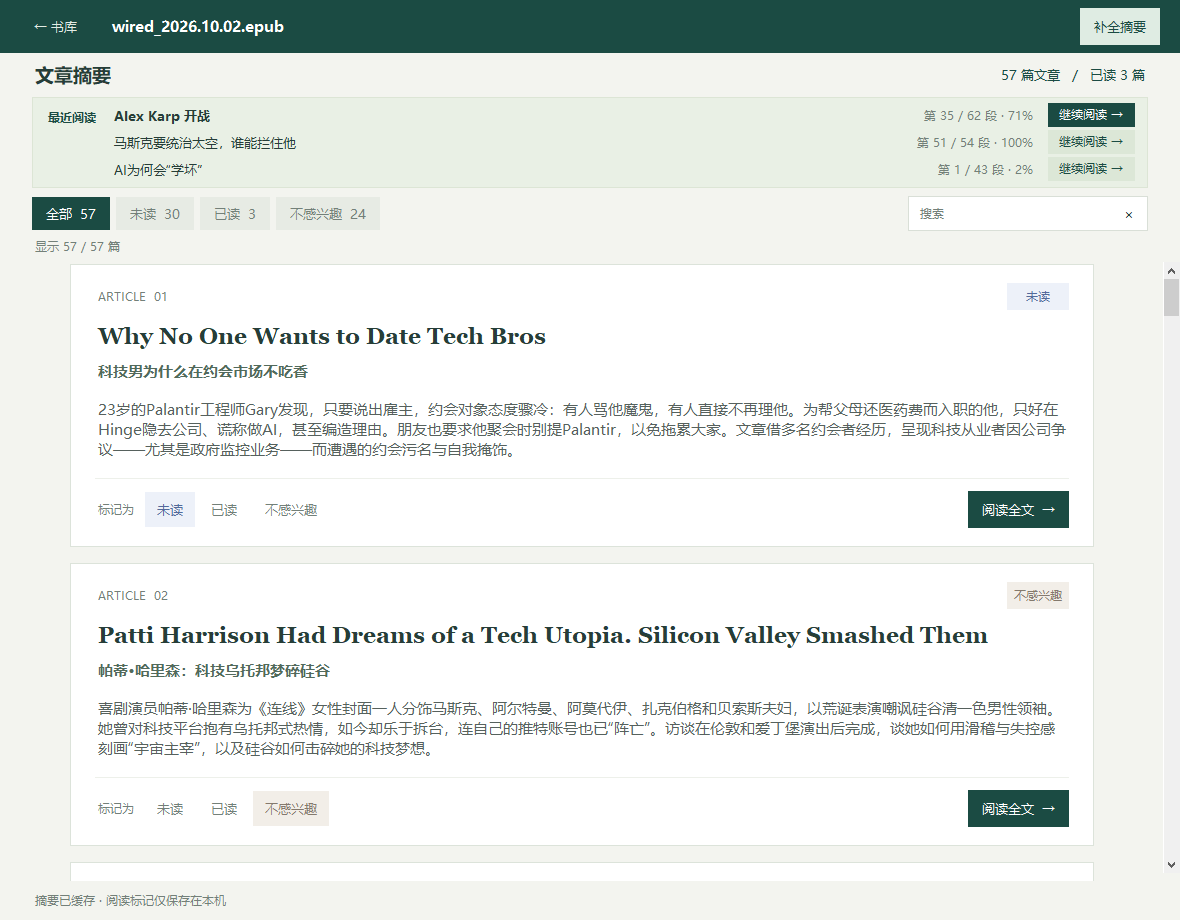
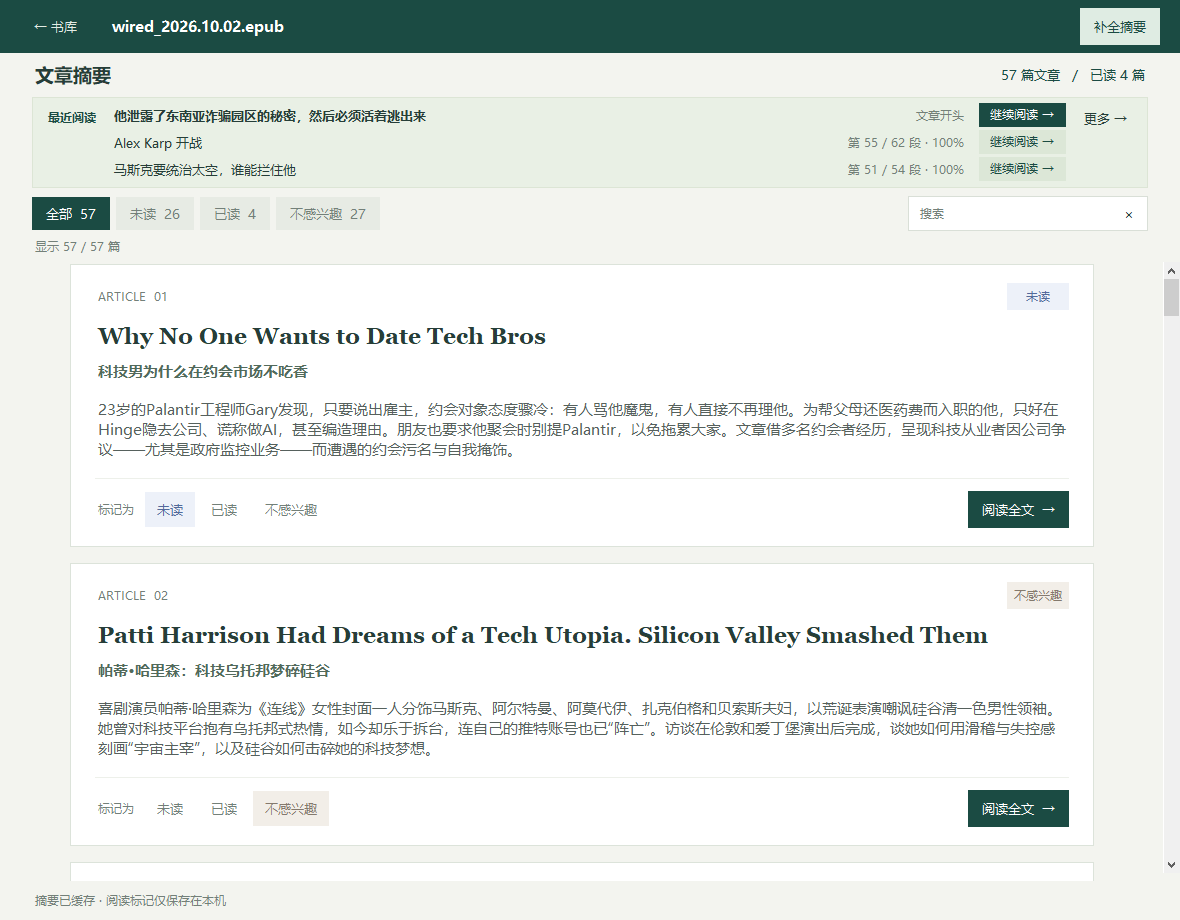
feat: 为继续阅读增加更多最近文章链接

Changed region(s): [[0.7322, 0.0913, 0.9763, 0.213], [0.0915, 0.1217, 0.3661, 0.213]]

diff --git a/kandu/ui_recent.py b/kandu/ui_recent.py
@@ -1,0 +1,132 @@
+"""最近阅读文章列表：跨刊物汇总、按时间排序，直接恢复已有阅读位置。"""
+from datetime import datetime
+import tkinter as tk
+from tkinter import ttk
+
+from kandu import core_parsers as store
+
+GREEN = "#1b4b43"
+PAPER = "#fffdf8"
+BG = "#f3f4ef"
+FAMILY = "Microsoft YaHei UI"
+
+
+def show_recent(parent, app, metas, article_indices=None):
+    current = getattr(parent, "_recent_window", None)
+    if current is not None and current.winfo_exists():
+        current._recent_metas = metas
+        current._recent_indices = article_indices
+        current.deiconify()
+        current.lift()
+        current._refresh_recent()
+        current._recent_text.focus_set()
+        return current
+
+    win = tk.Toplevel(parent)
+    parent._recent_window = win
+    win.title("最近阅读 · 刊读")
+    win.geometry("880x720")
+    win.minsize(520, 400)
+    win.configure(bg=BG)
+    tk.Label(win, text="最近阅读", bg=GREEN, fg="white", anchor="w", padx=24, pady=14,
+             font=(FAMILY, 16, "bold")).pack(fill="x")
+    tk.Label(win, text="按最近阅读时间排列 · 点击文章继续上次阅读", bg=BG, fg="#738079",
+             anchor="w", padx=24, pady=10, font=(FAMILY, 10)).pack(fill="x")
+    footer = tk.Frame(win, bg=BG, padx=24, pady=10)
+    footer.pack(side="bottom", fill="x")
+    status = tk.Label(footer, bg=BG, fg="#738079", font=(FAMILY, 9))
+    status.pack(side="left")
+    page = tk.Frame(win, bg=PAPER)
+    page.pack(fill="both", expand=True, padx=24)
+    page.columnconfigure(0, weight=1)
+    page.rowconfigure(0, weight=1)
+    txt = tk.Text(page, wrap="word", padx=18, pady=12, bg=PAPER, fg="#2d3e36", relief="flat",
+                  highlightthickness=0, font=(FAMILY, 11), cursor="arrow", selectbackground="#d2e2d3")
+    txt.grid(row=0, column=0, sticky="nsew")
+    scrollbar = ttk.Scrollbar(page, command=txt.yview)
+    scrollbar.grid(row=0, column=1, sticky="ns")
+    txt.configure(yscrollcommand=scrollbar.set)
+    txt.tag_configure("title", foreground=GREEN, font=(FAMILY, 12, "bold"), spacing1=10, spacing3=5)
+    txt.tag_configure("english", foreground="#536e62", font=("Georgia", 11), spacing3=7)
+    txt.tag_configure("meta", foreground="#738079", font=(FAMILY, 9), spacing3=16)
+    win._recent_text = txt
+    win._recent_items = []
+    win._recent_shown = 0
+    win._recent_metas = metas
+    win._recent_indices = article_indices
+
+    def wheel(event):
+        if event.delta:
+            txt.yview_scroll(-max(1, abs(event.delta) // 120) * (1 if event.delta > 0 else -1) * 3, "units")
+        return "break"
+
+    txt.bind("<MouseWheel>", wheel)
+
+    def open_article(meta, index):
+        # 关闭列表后再切换页面，避免父页面销毁时留下悬空窗口。
+        win.destroy()
+        app.open_reader(meta, index)
+
+    def append_rows():
+        anchor = txt.index("@0,0")
+        txt.configure(state="normal")
+        end = min(win._recent_shown + 50, len(win._recent_items))
+        for rank in range(win._recent_shown, end):
+            meta, index, record = win._recent_items[rank]
+            tag = f"recent_article_{rank}"
+            title = record.get("titleZh") or record["title"]
+            txt.insert("end", title + "\n", ("title", tag))
+            if record.get("titleZh") and record["titleZh"] != record["title"]:
+                txt.insert("end", record["title"] + "\n", ("english", tag))
+            location = "已到文末" if record["atEnd"] else (
+                "文章开头" if record["atStart"] else
+                f"第 {record['paragraphIndex'] + 1} / {record['paragraphCount']} 段 · {round(record['progress'] * 100)}%")
+            try:
+                when = datetime.fromtimestamp(record["lastReadAt"] / 1000).strftime("%Y-%m-%d %H:%M")
+            except (ValueError, OSError, OverflowError):
+                when = ""
+            txt.insert("end", f"{meta['fileName']}\n{location}  ·  {when}\n", "meta")
+            txt.tag_bind(tag, "<Button-1>", lambda e, m=meta, i=index: open_article(m, i))
+            txt.tag_bind(tag, "<Enter>", lambda e: txt.configure(cursor="hand2"))
+            txt.tag_bind(tag, "<Leave>", lambda e: txt.configure(cursor="arrow"))
+        win._recent_shown = end
+        if not win._recent_items:
+            txt.insert("end", "还没有文章阅读记录，打开一篇文章后会自动记录在这里。", "meta")
+        txt.configure(state="disabled")
+        txt.yview(anchor)
+        status.configure(text=f"已显示 {end} / {len(win._recent_items)} 篇")
+        more.configure(state="normal" if end < len(win._recent_items) else "disabled")
+
+    more = tk.Button(footer, text="再显示 50 篇", command=append_rows, bg="#e5ebe2", fg=GREEN,
+                     relief="flat", padx=12, pady=5, font=(FAMILY, 9), cursor="hand2")
+    more.pack(side="right")
+    win._recent_more = more
+
+    def refresh():
+        items = []
+        for meta in {m["id"]: m for m in win._recent_metas}.values():
+            for key, record in store.load_reading_history(meta["id"]).items():
+                index = int(key)
+                if win._recent_indices is None or index in win._recent_indices:
+                    items.append((meta, index, record))
+        items.sort(key=lambda item: (-item[2]["lastReadAt"], item[0]["id"], item[1]))
+        win._recent_items = items
+        win._recent_shown = 0
+        txt.configure(state="normal")
+        txt.delete("1.0", "end")
+        for tag in txt.tag_names():
+            if str(tag).startswith("recent_article_"):
+                txt.tag_delete(tag)
+        append_rows()
+        txt.yview_moveto(0)
+
+    win._refresh_recent = refresh
+    refresh()
+
+    def activate(event):
+        if event.widget is win:
+            win.unbind("<Map>", binding)
+            win.after_idle(txt.focus_set)
+
+    binding = win.bind("<Map>", activate, add="+")
+    return win

diff --git a/tests/run_tests.py b/tests/run_tests.py
@@ -1445,6 +1445,13 @@ def test_digest_compact_header():
             print(f"  {geometry}: header {top}px, article viewport {frame.canvas.winfo_height()}px")
         frame.recent_buttons[1].invoke()
         assert opened == [1]
+        progress = dict(store.load_reading_history(meta["id"])["1"])
+        for index in (4, 5, 999):
+            store.save_reading_progress(meta["id"], index, dict(progress, title=f"Article {index}"))
+        frame.recent_more_btn.invoke()
+        root.update()
+        assert len(frame._recent_window._recent_items) == 5, "本刊更多应显示超过三篇，且排除已不在摘要中的文章"
+        assert all(item[0]["id"] == meta["id"] for item in frame._recent_window._recent_items)
     finally:
         root.destroy()
 
@@ -2260,6 +2267,88 @@ def test_cover_repair():
             App._index_worker(holder, [meta])
         cover.assert_called_once_with(meta)
         assert holder.index_state["skipped"] == 1 and not holder.index_state["running"]
+        assert not errors, errors
+    finally:
+        root.destroy()
+
+
+@case("更多最近阅读跨刊汇总、分页、刷新复用与文章链接")
+def test_recent_articles_more():
+    import tkinter as tk
+    from tkinter import ttk
+    from types import SimpleNamespace
+    from kandu.ui_recent import show_recent
+    from kandu.ui_library import LibraryFrame
+    root = tk.Tk()
+    root.geometry("900x620")
+    errors, opened = [], []
+    root.report_callback_exception = lambda *a: errors.append(a)
+    metas = [dict(META, id="T_RECENT_MORE_A", fileName="wired_2026.11.02.epub"),
+             dict(META, id="T_RECENT_MORE_B", fileName="TheEconomist.2026.11.07.epub")]
+    record = {"title": "Same title", "titleZh": "同名文章", "paragraphIndex": 7,
+              "paragraphOffset": 40, "paragraphStart": "We read", "paragraphCount": 20,
+              "wordCount": 1000, "progress": .35, "atStart": False, "atEnd": False}
+    history = {str(i): dict(record, title=f"Article {i}", titleZh=f"文章 {i}", lastReadAt=1000000000000 + i)
+               for i in range(58)}
+    store._atomic_json_write(store._reading_history_file(metas[0]["id"]), history)
+    store._atomic_json_write(store._reading_history_file(metas[1]["id"]),
+                             {"4": dict(record, lastReadAt=1000000000080)})
+    store._atomic_json_write(store._reading_history_file("T_REMOVED_BOOK"),
+                             {"1": dict(record, lastReadAt=1000000000090)})
+    app = SimpleNamespace(settings={"recentBooks": [metas[0]["id"]]}, open_settings=lambda: None,
+                          start_indexing=lambda: None, start_batch_digest=lambda: None,
+                          index_state={"running": False, "done": 0}, batch_state={"running": False, "done": 0},
+                          open_reader=lambda m, i: opened.append((m["id"], i)))
+    try:
+        with patch.object(store, "load_library", return_value=metas):
+            frame = LibraryFrame(root, app)
+        frame.pack(fill="both", expand=True)
+        root.update()
+        frame.recent_more_btn.invoke()
+        root.update()
+        win = frame._recent_window
+        assert len(win._recent_items) == 59 and win._recent_shown == 50
+        assert [(m["id"], i) for m, i, _ in win._recent_items[:3]] == [
+            (metas[1]["id"], 4), (metas[0]["id"], 57), (metas[0]["id"], 56)]
+        txt = win._recent_text
+        assert "第 8 / 20 段 · 35%" in txt.get("1.0", "end")
+        assert "TheEconomist.2026.11.07.epub" in txt.get("1.0", "end")
+        win.geometry("520x400")
+        root.update()
+        assert txt.winfo_height() > 180
+        assert any(isinstance(w, ttk.Scrollbar) and w.winfo_ismapped() for w in txt.master.winfo_children())
+        txt.yview_moveto(.5)
+        root.update()
+        before = txt.index("@0,0")
+        win._recent_more.invoke()
+        root.update()
+        assert win._recent_shown == 59 and win._recent_more.cget("state") == "disabled"
+        assert txt.index("@0,0") == before, "分页追加不能跳回开头"
+        assert "Article 0" in txt.get("1.0", "end")
+        frame.recent_more_btn.invoke()
+        assert frame._recent_window is win, "重复点击更多应唤回同一个列表窗口"
+        assert not win.attributes("-topmost") and root.grab_current() is None and not win.transient()
+        # 原有列表窗口刷新后可收窄到本刊，也可更新新增文章的阅读时间。
+        store.save_reading_progress(metas[0]["id"], 30, record)
+        assert show_recent(frame, app, [metas[0]], {30, 20}) is win
+        assert [i for _, i, _ in win._recent_items] == [30, 20]
+        txt.yview_moveto(0)
+        root.update()
+        title = txt.bbox(txt.tag_ranges("recent_article_0")[0])
+        assert title
+        txt.event_generate("<Motion>", x=title[0] + 2, y=title[1] + 2)
+        txt.event_generate("<Button-1>", x=title[0] + 2, y=title[1] + 2)
+        root.update()
+        assert opened == [(metas[0]["id"], 30)] and not win.winfo_exists()
+        frame.recent_more_btn.invoke()
+        root.update()
+        replacement = frame._recent_window
+        assert replacement is not win
+        frame.destroy()
+        root.update()
+        assert not replacement.winfo_exists(), "离开首页应关闭最近阅读窗口"
+        empty = show_recent(root, app, [])
+        assert not empty._recent_items and "还没有" in empty._recent_text.get("1.0", "end")
         assert not errors, errors
     finally:
         root.destroy()

diff --git a/kandu/ui_library.py b/kandu/ui_library.py
@@ -8,6 +8,7 @@ from PIL import Image, ImageTk
 
 from kandu import core_config as cfgmod
 from kandu import core_parsers as store
+from kandu.ui_recent import show_recent
 
 FAMILY = "Microsoft YaHei UI"
 THUMB_W, THUMB_H = 126, 166
@@ -411,8 +412,13 @@ class LibraryFrame(tk.Frame):
         self._recent_cards.clear()
         recent = [by_id[i] for i in dict.fromkeys(self.app.settings.get("recentBooks") or []) if i in by_id][:3]
         if recent:
-            tk.Label(self.recent_section, text="继续阅读", bg=PAPER, fg=GREEN,
-                     font=(FAMILY, 10, "bold")).pack(anchor="w", pady=(0, 7))
+            heading = tk.Frame(self.recent_section, bg=PAPER)
+            heading.pack(fill="x", pady=(0, 7))
+            tk.Label(heading, text="继续阅读", bg=PAPER, fg=GREEN,
+                     font=(FAMILY, 10, "bold")).pack(side="left")
+            self.recent_more_btn = self._button(heading, "更多 →", lambda: show_recent(self, self.app, self.metas),
+                                                bg=PAPER, padx=6, pady=0)
+            self.recent_more_btn.pack(side="right")
             row = tk.Frame(self.recent_section, bg=PAPER)
             row.pack(fill="x", pady=(0, 16))
             for i, meta in enumerate(recent):

diff --git a/kandu/ui_digest.py b/kandu/ui_digest.py
@@ -6,6 +6,7 @@ from kandu import core_parsers as store
 from kandu import core_llm as llm
 from kandu import core_gen as gen
 from kandu import core_config as cfgmod
+from kandu.ui_recent import show_recent
 
 FAMILY = "Microsoft YaHei UI"
 PAPER = "#f3f4ef"
@@ -273,6 +274,10 @@ class DigestFrame(tk.Frame):
         tk.Label(self.recent_section, text="最近阅读", bg="#e9f0e5", fg=GREEN,
                  font=(FAMILY, 9, "bold")).pack(side="left", anchor="n", padx=(0, 12), pady=4)
         rows = tk.Frame(self.recent_section, bg="#e9f0e5")
+        self.recent_more_btn = self._button(self.recent_section, "更多 →",
+            lambda: show_recent(self, self.app, [self.meta], {a["index"] for a in self._articles} or None),
+            bg="#e9f0e5", padx=6, pady=1)
+        self.recent_more_btn.pack(side="right", anchor="n", padx=(10, 0), pady=3)
         rows.pack(side="left", fill="x", expand=True)
         for rank, (index, record) in enumerate(recent):
             article = articles.get(index, {})

diff --git a/kandu/__init__.py b/kandu/__init__.py
@@ -1,3 +1,3 @@
 """刊读 · Kandu Desktop"""
 
-__version__ = "0.8.10"
+__version__ = "0.8.11"

diff --git a/README.md b/README.md
@@ -21,6 +21,10 @@
 
 [![文章摘要浏览：最近阅读、继续阅读、未读与已读标记、搜索筛选](docs/screenshots/desktop-digest.png)](docs/screenshots/desktop-digest.png)
 
+**更多最近阅读：首页跨刊物汇总，摘要页查看本刊记录，点击文章回到上次阅读位置。**
+
+[![更多最近阅读：文章链接、所属刊物和阅读位置](docs/screenshots/desktop-recent.png)](docs/screenshots/desktop-recent.png)
+
 **全篇生词表：暖白纸面、分层词条、查找与段落定位。**
 
 [![生词表：音标、本文含义、原文短语与词根词源](docs/screenshots/desktop-vocabulary.png)](docs/screenshots/desktop-vocabulary.png)
@@ -71,6 +75,11 @@
    生词表词条级段落锚点自愈、运行日志（error.log）
 
 数据目录：`%LOCALAPPDATA%\KanduDesktop`（settings.json / books.json / vocab / covers / cache / article_states）
+
+v0.8.11 在首页「继续阅读」和摘要页「最近阅读」增加「更多」入口，保持原有三条快捷入口。
+首页汇总书库内各刊物的文章阅读记录，摘要页只显示本刊，均按最后阅读时间排序；
+显示中英文文章标题、所属刊物、段落位置和进度，点击文章直接恢复上次阅读位置。
+列表支持滚动和分批加载，重复点击复用已有窗口；直接使用本地阅读记录，无需请求模型。
 
 v0.8.10 首页按 Wired、经济学人、纽约客、大西洋月刊等刊名分区，同刊各期集中展示，默认新期优先。
 分类下拉框可直达某刊，支持组合刊名搜索和 EPUB / PDF 筛选，继续阅读入口保持固定。
